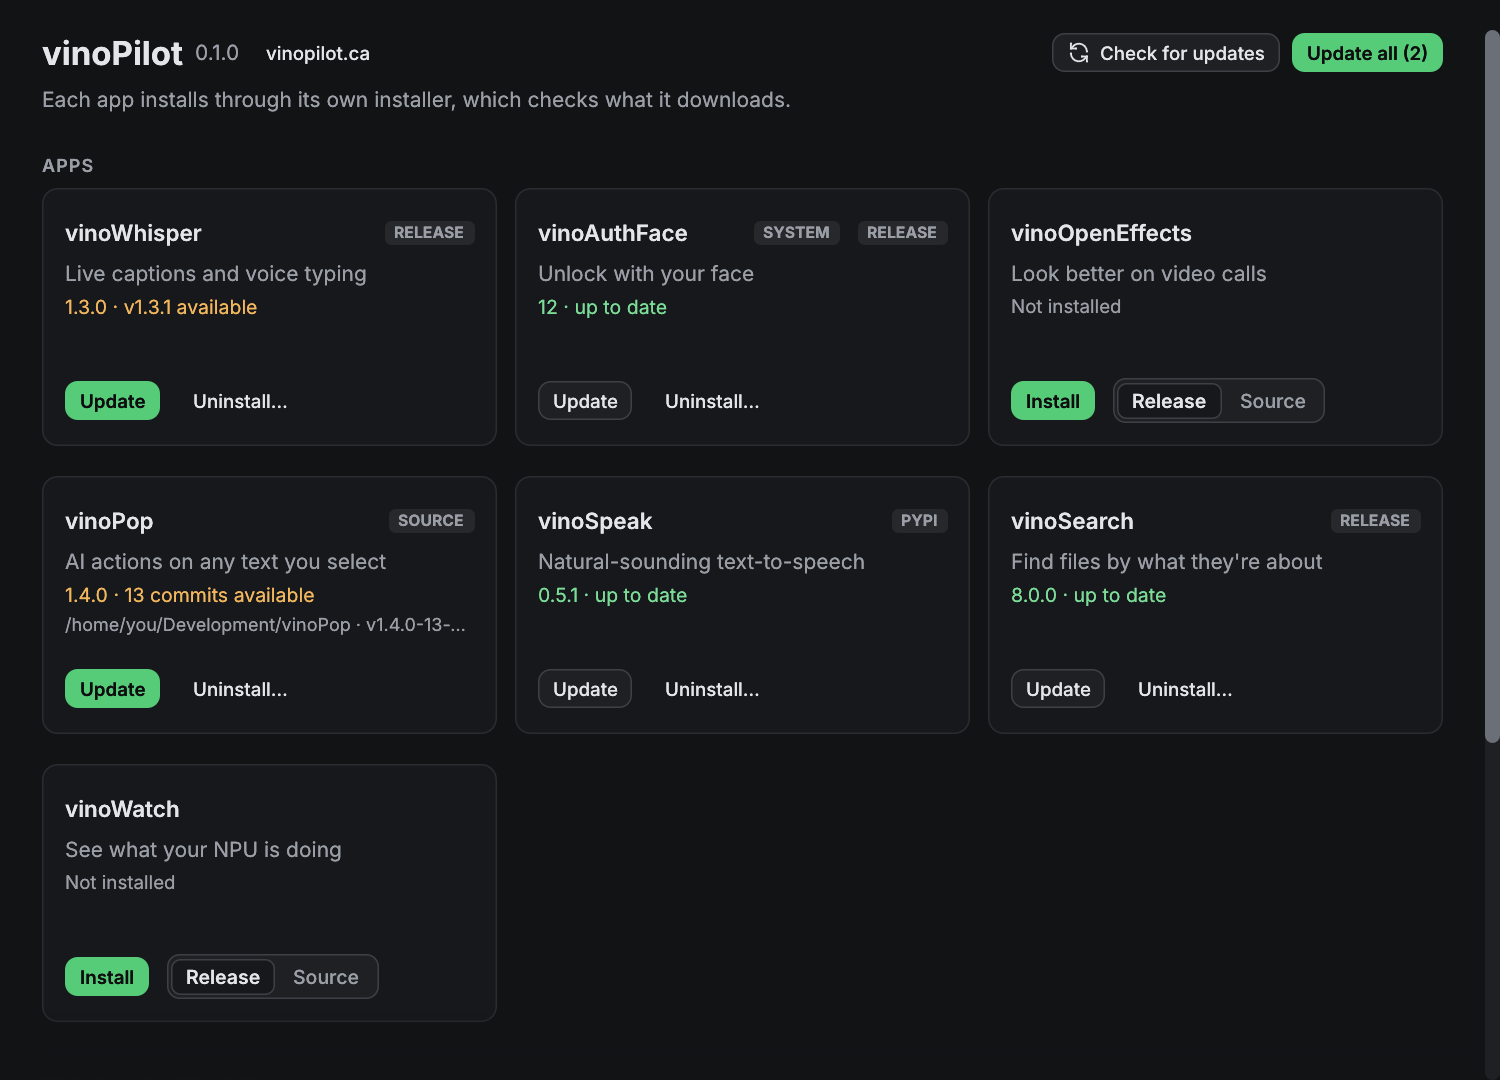
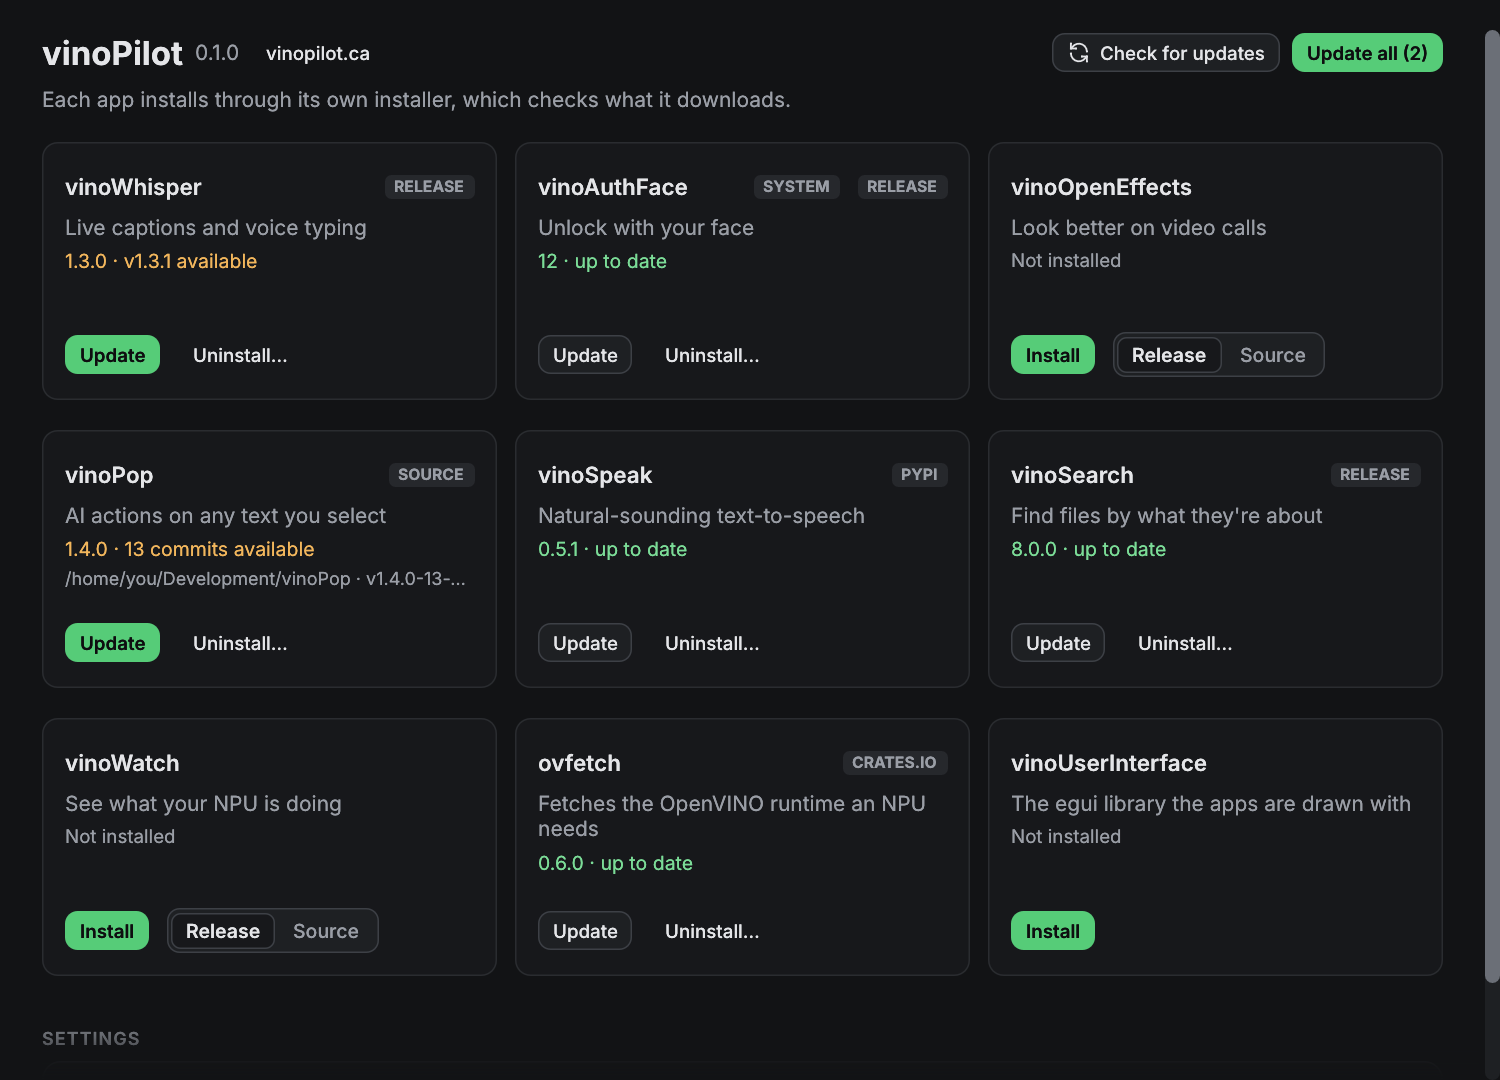
feat(gui): a 3x3 grid of the nine components
Drops the Apps / Tools and libraries sections and the vinoPilot card.
vinoPilot's own update moves to the header, next to its version, and
Update all no longer includes it. One column when three don't fit.

diff --git a/crates/gui/src/lib.rs b/crates/gui/src/lib.rs
@@ -19,27 +19,26 @@ pub mod desktop;
 
 pub const VERSION: &str = env!("CARGO_PKG_VERSION");
 
-/// A card is at least this wide; the grid fits as many columns as it can.
-const CARD_MIN: f32 = 270.0;
+/// Nine cards, three by three; one column when three don't fit.
+const COLUMNS: usize = 3;
+const CARD_MIN: f32 = 260.0;
 const CARD_HEIGHT: f32 = 172.0;
 const GAP: f32 = 12.0;
 /// The grid stops growing here, so cards don't stretch across a 4K screen.
-const PAGE_MAX: f32 = 4.0 * CARD_MIN + 3.0 * GAP + 120.0;
+const PAGE_MAX: f32 = 3.0 * 340.0 + 2.0 * GAP;
 
-const GROUPS: [(&str, &[Id]); 2] = [
-    (
-        "Apps",
-        &[
-            Id::App(vino_ui::App::Whisper),
-            Id::App(vino_ui::App::AuthFace),
-            Id::App(vino_ui::App::OpenEffects),
-            Id::App(vino_ui::App::Pop),
-            Id::App(vino_ui::App::Speak),
-            Id::App(vino_ui::App::Search),
-            Id::App(vino_ui::App::Watch),
-        ],
-    ),
-    ("Tools and libraries", &[Id::Ovfetch, Id::Ui, Id::Pilot]),
+/// The grid, in vinopilot.ca's order. vinoPilot itself has no card: its
+/// version and update live in the header.
+const CARDS: [Id; 9] = [
+    Id::App(vino_ui::App::Whisper),
+    Id::App(vino_ui::App::AuthFace),
+    Id::App(vino_ui::App::OpenEffects),
+    Id::App(vino_ui::App::Pop),
+    Id::App(vino_ui::App::Speak),
+    Id::App(vino_ui::App::Search),
+    Id::App(vino_ui::App::Watch),
+    Id::Ovfetch,
+    Id::Ui,
 ];
 
 pub struct Pilot {
@@ -138,8 +137,9 @@ impl Pilot {
         )
     }
 
+    /// What Update all does: the cards. vinoPilot updates from the header.
     fn updatable(&self) -> Vec<Id> {
-        Id::ALL
+        CARDS
             .into_iter()
             .filter(|id| matches!(self.update(*id), Update::Available { .. }))
             .collect()
@@ -186,6 +186,7 @@ impl Pilot {
         ui.horizontal(|ui| {
             widgets::title(ui, "vinoPilot");
             widgets::muted(ui, VERSION);
+            self.self_update(ui);
             if ui
                 .add(Button::ghost(vino_ui::family::SITE_LABEL).small())
                 .on_hover_text(vino_ui::family::SITE)
@@ -208,6 +209,29 @@ impl Pilot {
             "Each app installs through its own installer, which checks what it downloads.",
         );
         ui.add_space(6.0);
+    }
+
+    /// "Update vinoPilot to vX" once a check finds one, through the same
+    /// steps as the other components, for however vinoPilot is installed.
+    fn self_update(&mut self, ui: &mut egui::Ui) {
+        let Update::Available { to } = self.update(Id::Pilot) else {
+            return;
+        };
+        let Some(installed) = self.local.get(&Id::Pilot).and_then(|l| l.installed.clone()) else {
+            return;
+        };
+        let ctx = ui.ctx().clone();
+        let clicked = ui
+            .add_enabled(
+                !self.busy(),
+                Button::primary(format!("Update vinoPilot to {to}")).small(),
+            )
+            .on_hover_text("Restart vinoPilot afterwards to run the new version")
+            .clicked();
+        if clicked {
+            self.queue.clear();
+            self.start(&ctx, Id::Pilot, installed.channel, Action::Update);
+        }
     }
 
     /// Check for updates and Update all. In a right-to-left layout the
@@ -249,12 +273,15 @@ impl Pilot {
         }
     }
 
-    fn grid(&mut self, ui: &mut egui::Ui, label: &str, ids: &[Id]) {
-        widgets::group_label(ui, label);
+    fn grid(&mut self, ui: &mut egui::Ui) {
         let width = ui.available_width();
-        let columns = (((width + GAP) / (CARD_MIN + GAP)).floor() as usize).clamp(1, 4);
+        let columns = if width + GAP >= COLUMNS as f32 * (CARD_MIN + GAP) {
+            COLUMNS
+        } else {
+            1
+        };
         let card = (width - GAP * (columns - 1) as f32) / columns as f32;
-        for chunk in ids.chunks(columns) {
+        for chunk in CARDS.chunks(columns) {
             ui.horizontal_top(|ui| {
                 ui.spacing_mut().item_spacing.x = GAP;
                 for id in chunk {
@@ -499,9 +526,8 @@ impl Pilot {
             .show(ui, |ui| {
                 widgets::page_scroll(ui, "vinoPilot", PAGE_MAX, |ui| {
                     self.header(ui);
-                    for (label, ids) in GROUPS {
-                        self.grid(ui, label, ids);
-                    }
+                    ui.add_space(6.0);
+                    self.grid(ui);
                     self.settings(ui);
                 });
             });

diff --git a/README.md b/README.md
@@ -48,9 +48,9 @@ x86_64 only for the release binaries, same as the apps it installs.
 
 ## The window
 
-A card per component, with its version, how it's installed (the tag top right), and **Update** or **Install**. Before installing, the switch on the card picks the way in. **Update all** appears once a check finds something. The installer's output streams into a panel underneath, with **Stop**. vinoAuthFace installs system-wide, so its actions go through `pkexec` and ask for your password.
+Nine cards, three by three: the seven apps, ovfetch and vinoUserInterface. Each has its version, how it's installed (the tag top right), and **Update** or **Install**. Before installing, the switch on the card picks the way in. **Update all** appears once a check finds something. vinoPilot's own version sits next to its name in the header, with **Update vinoPilot to vX** beside it when there's a newer one. The installer's output streams into a panel underneath, with **Stop**. vinoAuthFace installs system-wide, so its actions go through `pkexec` and ask for your password.
 
-It follows the desktop's light or dark setting, and drops to one column when snapped to half a laptop screen:
+It follows the desktop's light or dark setting, and drops to one column when three don't fit, like when snapped to half a laptop screen:
 
 <p align="center">
   <img src="docs/images/window-light.png" width="64%" alt="The window in the light theme">

diff --git a/CLAUDE.md b/CLAUDE.md
@@ -18,7 +18,7 @@ A cargo workspace, planned to become a monorepo with a Python TUI beside it (dri
   - `job.rs`: runs steps in a background thread, streams lines through a `Notify` callback.
   - `lib.rs` `command()`: every child process goes through it, for the `PATH` fix-up (`~/.local/bin`, `~/.cargo/bin`).
 - `crates/cli` (`vinopilot`): hand-rolled args, `--json` is the API (docs/json-api.md, pinned by tests/cli.rs).
-- `crates/gui` (`vinopilot-gui`): lib (`Pilot`) + thin main. Cards in a grid, log panel at the bottom.
+- `crates/gui` (`vinopilot-gui`): lib (`Pilot`) + thin main. A 3x3 grid (`CARDS`: seven apps, ovfetch, vinoUserInterface; one column when three don't fit), log panel at the bottom. vinoPilot has no card: its version and self-update are in the header, and Update all skips it.
 
 ## Commands
 

diff --git a/CONTRIBUTING.md b/CONTRIBUTING.md
@@ -37,4 +37,4 @@ CI also builds the release tarball the way `release.yml` does and runs it.
 1. A variant: if it's in vino-user-interface's `App`, it comes with `Id::App`; otherwise add one to `Id` with its name, blurb and repo.
 2. Its steps in `catalog::steps` for every channel `channels()` offers (a test fails until they exist).
 3. How to tell it's installed, in `detect::local`.
-4. A card in the window's `GROUPS`, and a row in the README table.
+4. A card in the window's `CARDS` (keep the grid full: it's 3 by 3), and a row in the README table.
